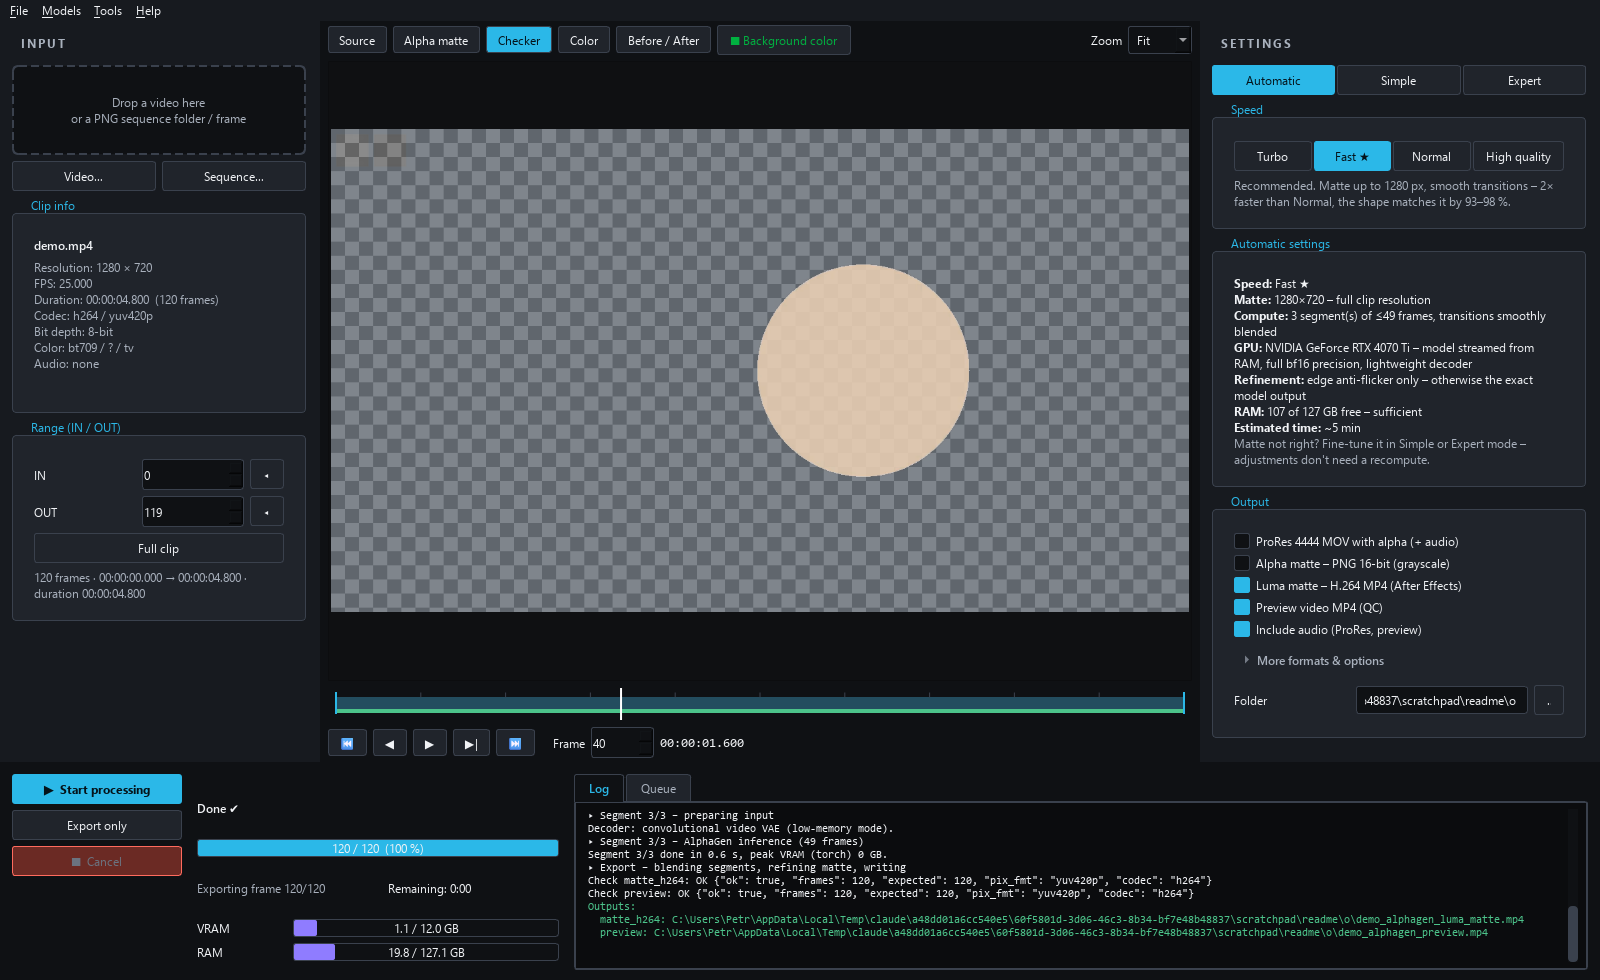
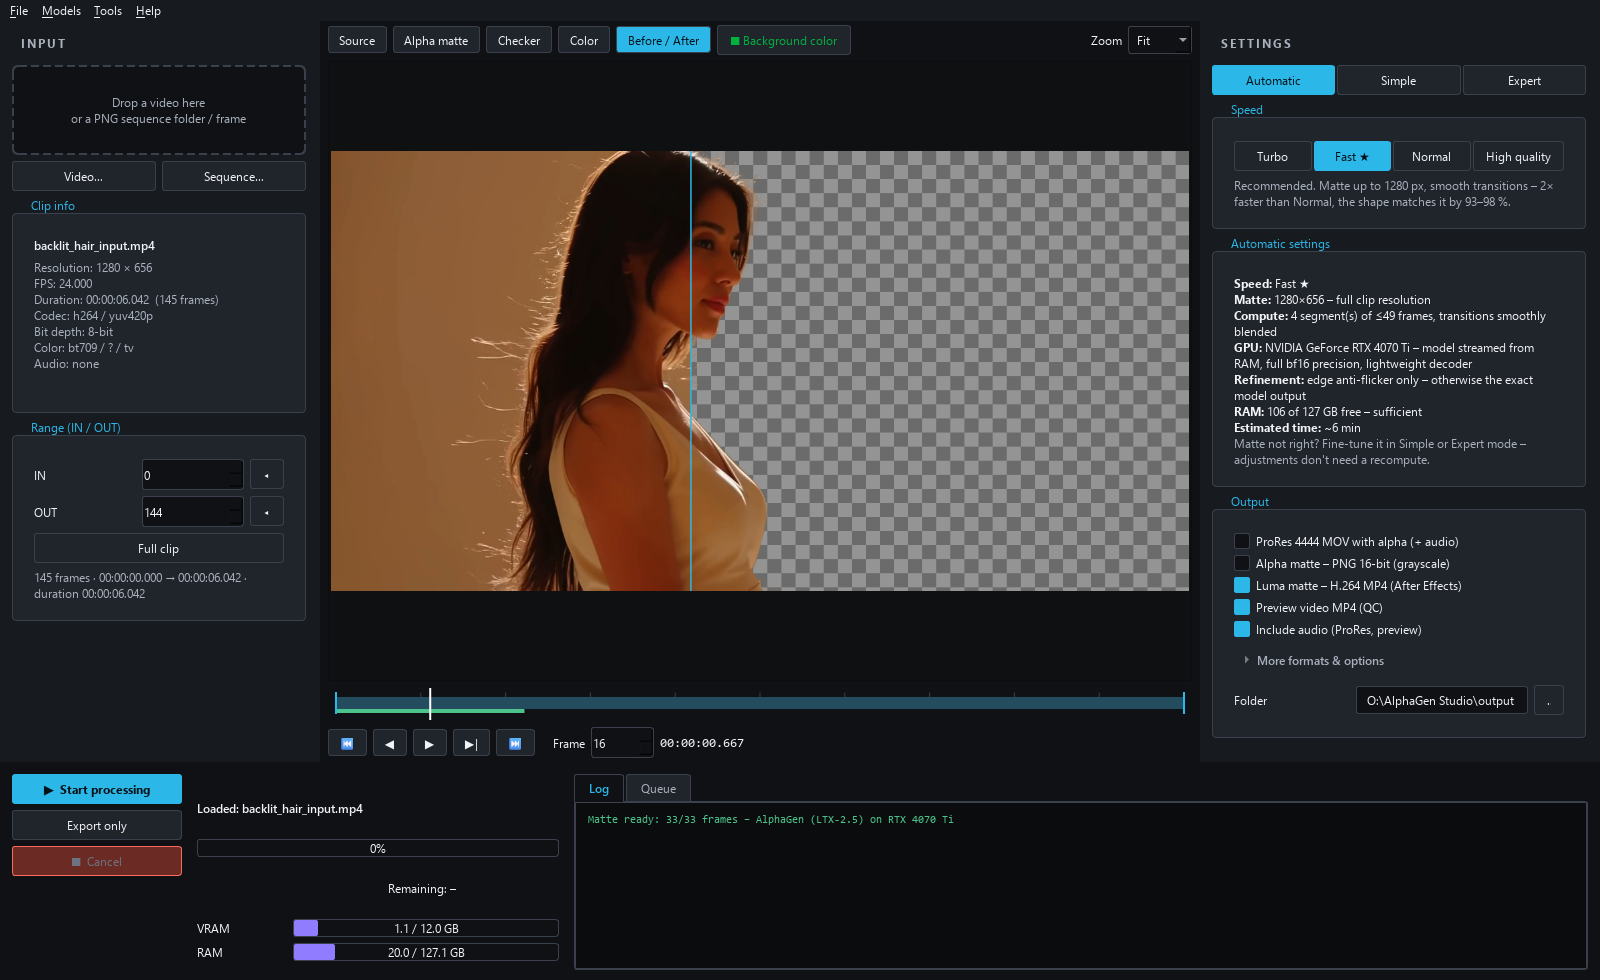
README: main screenshot with a real key (Before/After)

diff --git a/README.md b/README.md
@@ -10,6 +10,9 @@ person is never re-generated.
 
 ![AlphaGen Studio](docs/screenshot.png)
 
+*Before / After view of a real AlphaGen key computed on an RTX 4070 Ti – backlit hair, no green screen
+(example footage: Lightricks AlphaGen model card).*
+
 | Automatic mode | Expert mode | Batch queue |
 |---|---|---|
 | ![Automatic](docs/settings_automatic.png) | ![Expert](docs/settings_expert.png) | ![Queue](docs/queue.png) |
